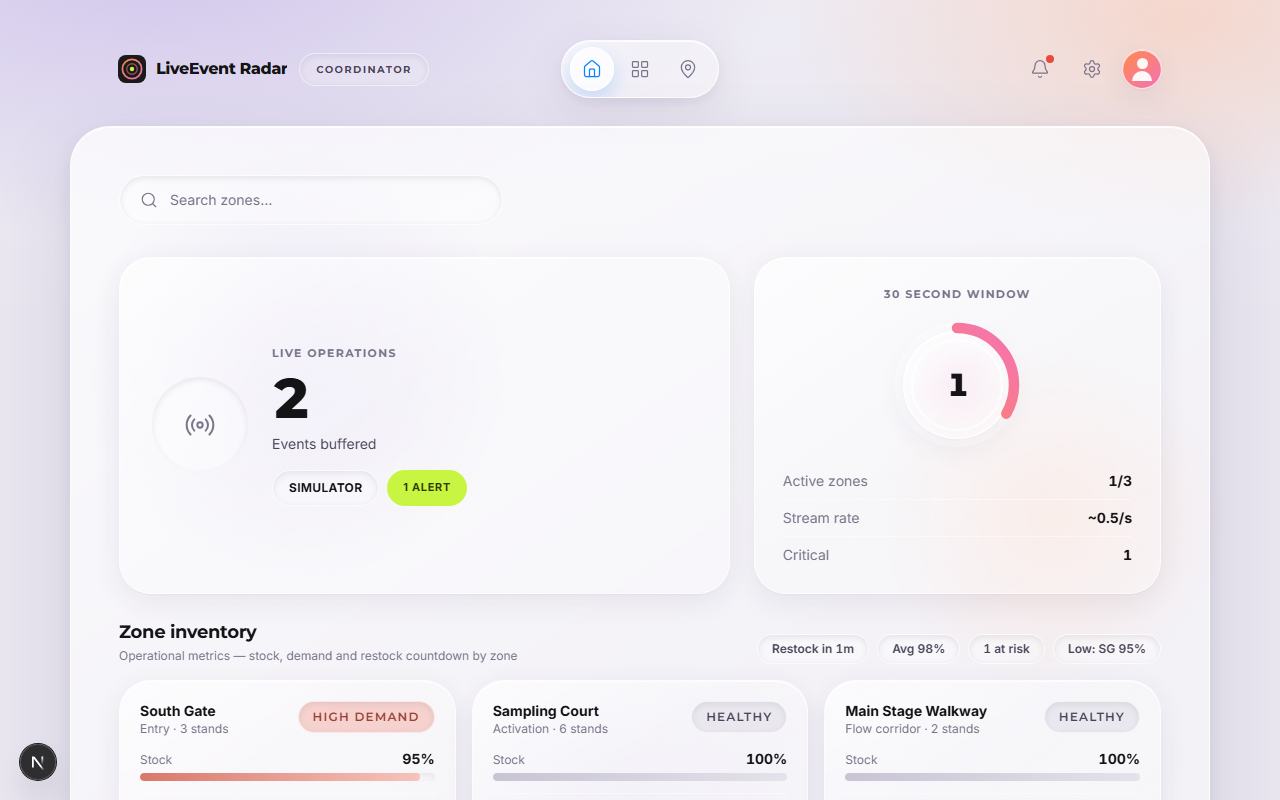
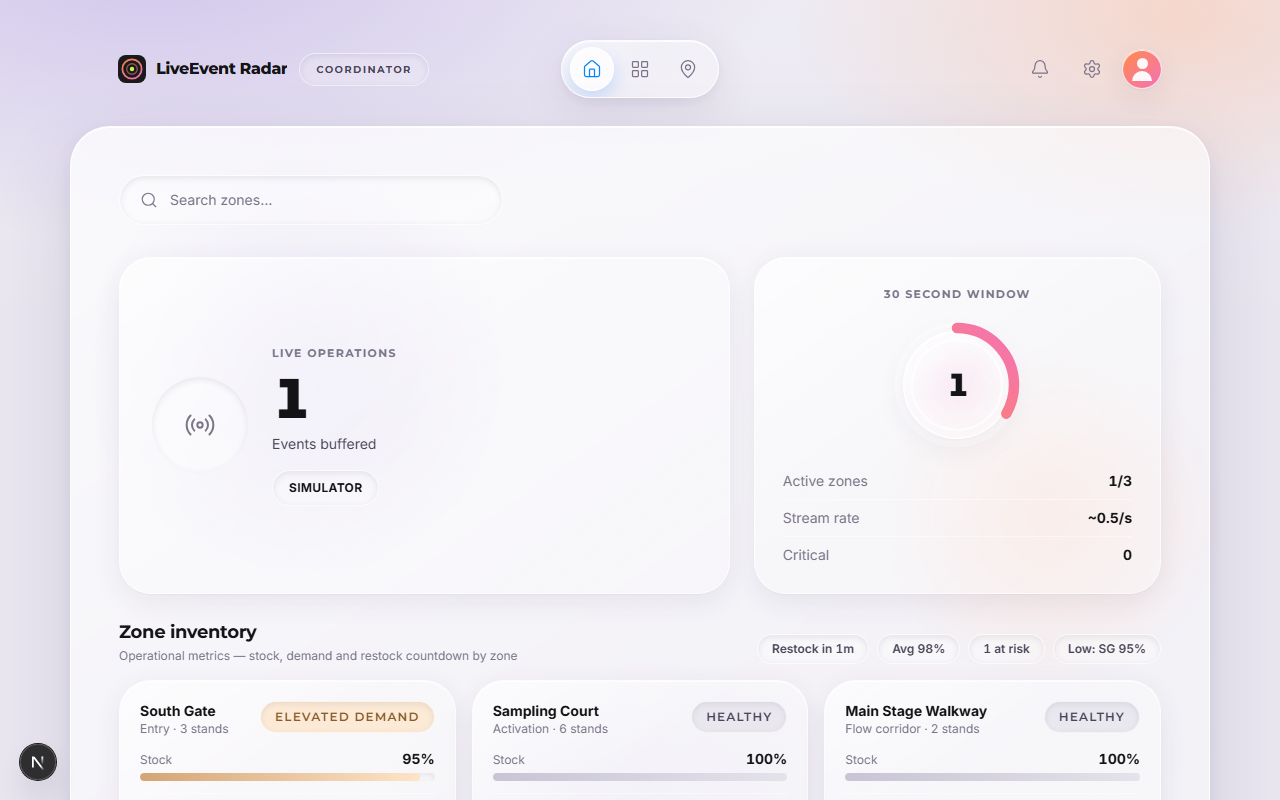
docs: add README demo GIF, venue map hero, and Live Demo badge

diff --git a/e2e/readme-showcase.spec.ts b/e2e/readme-showcase.spec.ts
@@ -1,80 +1,100 @@
 import { expect, test } from "@playwright/test";
 import fs from "node:fs";
 import path from "node:path";
+import { PNG } from "pngjs";
+import { GIFEncoder, quantize, applyPalette } from "gifenc";
 
 const showcaseDir = path.resolve(process.cwd(), "docs/assets/readme");
+const framesDir = path.join(showcaseDir, "frames");
+const demoGif = path.join(showcaseDir, "demo.gif");
 
 test.describe.configure({ mode: "serial" });
 
 test.use({
   viewport: { width: 1280, height: 800 },
-  video: {
-    mode: "on",
-    size: { width: 1280, height: 800 },
-  },
 });
 
 test.beforeAll(() => {
-  fs.mkdirSync(showcaseDir, { recursive: true });
+  fs.rmSync(framesDir, { recursive: true, force: true });
+  fs.mkdirSync(framesDir, { recursive: true });
 });
 
-test("capture hero, screens, and route transition clip", async ({ page }) => {
+async function captureFrame(page: import("@playwright/test").Page, index: number) {
+  const file = path.join(framesDir, `frame-${String(index).padStart(3, "0")}.png`);
+  await page.screenshot({ path: file, type: "png" });
+  return file;
+}
+
+test("capture hero PNG and ~8s demo GIF", async ({ page }) => {
+  const frames: string[] = [];
+  let frameIndex = 0;
+
   await page.goto("/");
   await expect(
     page.getByRole("heading", { name: "Live operations" })
   ).toBeVisible();
 
-  // Let the simulator populate KPIs, zone inventory, and activity rows.
-  await page.waitForTimeout(4500);
+  await page.waitForTimeout(2000);
+  frames.push(await captureFrame(page, frameIndex++));
+
+  await page.waitForTimeout(1500);
+  frames.push(await captureFrame(page, frameIndex++));
 
   await page.screenshot({
     path: path.join(showcaseDir, "hero-command-center.png"),
     fullPage: false,
   });
 
-  await page.screenshot({
-    path: path.join(showcaseDir, "command-center-full.png"),
-    fullPage: true,
-  });
-
-  const zoneActivity = page.locator("section", {
-    has: page.getByRole("heading", { name: "Zone activity" }),
-  });
-  await expect(zoneActivity.getByText(/evt\/30s/).first()).toBeVisible({
-    timeout: 8000,
-  });
+  const venueMap = page.locator("#venue-map");
+  await venueMap.scrollIntoViewIfNeeded();
+  await page.waitForTimeout(1200);
+  frames.push(await captureFrame(page, frameIndex++));
 
   await page.screenshot({
-    path: path.join(showcaseDir, "command-center-activity.png"),
+    path: path.join(showcaseDir, "hero-venue-map-heat.png"),
     fullPage: false,
   });
+
+  await page.waitForTimeout(800);
+  frames.push(await captureFrame(page, frameIndex++));
 
   await page.getByRole("link", { name: "Event stream" }).click();
   await expect(
     page.getByRole("heading", { name: "LiveEvent Radar", level: 1 })
   ).toBeVisible();
-  await page.waitForTimeout(2500);
+  frames.push(await captureFrame(page, frameIndex++));
 
-  await page.screenshot({
-    path: path.join(showcaseDir, "telemetry-dashboard.png"),
-    fullPage: false,
-  });
-
-  await page.screenshot({
-    path: path.join(showcaseDir, "telemetry-dashboard-full.png"),
-    fullPage: true,
-  });
-
-  await page.getByRole("link", { name: "Command Center" }).click();
-  await expect(
-    page.getByRole("heading", { name: "Live operations" })
-  ).toBeVisible();
   await page.waitForTimeout(1200);
+  frames.push(await captureFrame(page, frameIndex++));
+
+  await expect(page.locator(".bry-row-capsule").first()).toBeVisible({
+    timeout: 8000,
+  });
+
+  await page.waitForTimeout(1000);
+  frames.push(await captureFrame(page, frameIndex++));
+
+  await page.waitForTimeout(1000);
+  frames.push(await captureFrame(page, frameIndex++));
+
+  encodeGif(frames, demoGif);
 });
 
-test.afterEach(async ({ page }) => {
-  const videoPath = await page.video()?.path();
-  if (!videoPath) return;
+function encodeGif(framePaths: string[], outputPath: string) {
+  const gif = GIFEncoder();
 
-  fs.copyFileSync(videoPath, path.join(showcaseDir, "route-transition.webm"));
-});
+  for (const framePath of framePaths) {
+    const png = PNG.sync.read(fs.readFileSync(framePath));
+    const { width, height, data } = png;
+    const palette = quantize(data, 256);
+    const index = applyPalette(data, palette);
+
+    gif.writeFrame(index, width, height, {
+      palette,
+      delay: 1000,
+    });
+  }
+
+  gif.finish();
+  fs.writeFileSync(outputPath, Buffer.from(gif.bytes()));
+}

diff --git a/README.md b/README.md
@@ -1,17 +1,35 @@
 # LiveEvent Radar
 
+[![Live Demo](https://img.shields.io/badge/Live_Demo-Vercel-000000?style=for-the-badge&logo=vercel&logoColor=white)](https://live-event-radar.vercel.app)
+
 Front-end prototype for monitoring live telemetry during brand activations — zone stock, SKU movement, and event streams in the browser.
 
 <p align="center">
   <img
     src="./docs/assets/readme/hero-command-center.png"
-    alt="LiveEvent Radar — Command Center with glass UI, KPI gauge, and venue map"
+    alt="LiveEvent Radar — Command Center glass UI with live KPIs and gauge"
     width="900"
   />
 </p>
 
 <p align="center">
-  <em>Command Center at <code>/</code> — live KPIs, zone stock heat map, and activity feed.</em>
+  <img
+    src="./docs/assets/readme/hero-venue-map-heat.png"
+    alt="SVG venue map with stock heat tiers"
+    width="900"
+  />
+</p>
+
+<p align="center">
+  <img
+    src="./docs/assets/readme/demo.gif"
+    alt="KPI and stock heat map, navigation to dashboard, route transition, and event stream"
+    width="900"
+  />
+</p>
+
+<p align="center">
+  <sub>~8s — Command Center KPIs + stock heat → <code>/dashboard</code> transition → live event stream</sub>
 </p>
 
 ## Preview
@@ -36,21 +54,6 @@ Front-end prototype for monitoring live telemetry during brand activations — z
     </td>
   </tr>
 </table>
-
-<p align="center">
-  <video
-    src="./docs/assets/readme/route-transition.webm"
-    width="900"
-    autoplay
-    loop
-    muted
-    playsinline
-  ></video>
-</p>
-
-<p align="center">
-  <sub>Route transition <code>/</code> ↔ <code>/dashboard</code> — persistent shell + View Transitions crossfade</sub>
-</p>
 
 ## Screens
 
@@ -90,11 +93,9 @@ No environment variables are required for the mock demo.
 | `npm run test:run` | Vitest single run |
 | `npm run test:e2e` | Playwright E2E — both routes, 3 viewports |
 | `npm run test:e2e:install` | Install Chromium for Playwright |
-| `npm run capture:readme` | Regenerate README screenshots + route clip |
+| `npm run capture:readme` | Regenerate README hero, GIF demo, and screenshots |
 
 ## Pre-deploy checklist
-
-Run from the repo root before pushing or deploying:
 
 ```bash
 npm run lint
@@ -113,7 +114,7 @@ Last verified: **20** Vitest tests · **18** Playwright runs (6 specs × desktop
 4. **Environment variables:** none required for the mock demo. Optional:
    - `NEXT_PUBLIC_SIMULATOR_ONLY=true` (default behaviour)
    - `NEXT_PUBLIC_WS_URL=wss://…` when a live feed exists
-5. After deploy, smoke-test `/` and `/dashboard` on desktop and a narrow viewport.
+5. Smoke-test `/` and `/dashboard` on desktop and a narrow viewport after deploy.
 
 ## Environment (optional)
 
@@ -138,7 +139,7 @@ app/
   _components/
     app-shell.tsx          # Persistent chrome across routes
 components/                # Shared UI (header, maps, sidebar, gauge, TransitionLink)
-docs/assets/readme/        # README showcase captures (Playwright)
+docs/assets/readme/        # README showcase (hero PNG, demo GIF, screenshots)
 features/live-radar/
   hooks/                   # Simulator, WebSocket, worker, Command Center sync
   lib/                     # Zone stock, incidents, geo, labels